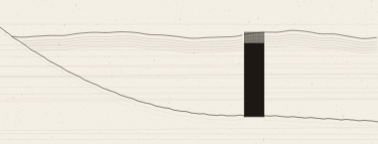
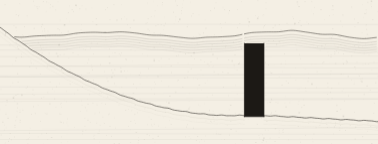
Remove crest stack grey box; fade sheltered plan chop
Sea: drop stacked overwash fill and crest cap; use the same waveBand
strokes as open water after the wall fill, gated by seaWashClearsWall only.

Plan: keep full chop amplitude; shelter ramps opacity and stroke width via
graduatedShelterStrength instead of blanking the calm band.

diff --git a/lib/shelter.ts b/lib/shelter.ts
@@ -25,9 +25,9 @@ export type PlanShelterInput = {
 const WALL_CALM_FRAC = 0.1;
 const BEACH_CALM_FRAC = 0.3;
 const SIDE_CALM_FRAC = 0.1;
-/** Calm-band floor — near-empty ink, not a second full chop field. */
-export const CALM_ROUGHNESS_MULT = 0.06;
-/** After the calm band, reach full chop over this share of pool depth (steeper than a linear ramp). */
+/** Most-sheltered chop still draws — this is the ink strength floor (opacity scale). */
+export const SHELTER_FADE_MIN = 0.22;
+/** After the calm band, reach full chop over this share of pool depth. */
 export const SHELTER_RAMP_FRAC = 0.32;
 
 /** At or below this mean, the whole pool is the quiet patch. Metres per second. */
@@ -177,26 +177,36 @@ export function planCalmBandFraction(fromDeg: number, wallShelters: boolean): nu
 }
 
 /**
- * Continuous 0–1 multiplier for plan chop roughness. Calm sits upwind; the
- * lee ramps smoothly to full forecast roughness.
+ * 0 upwind (most sheltered) → 1 downwind (full forecast chop). Strokes stay
+ * visible; plan ink fades with this strength instead of dropping out.
  */
-export function graduatedShelterMultiplier(
+export function graduatedShelterStrength(
   point: PlanPoint,
   input: PlanShelterInput,
   meanMs: number,
 ): number {
   const ms = Number.isFinite(meanMs) ? Math.max(0, meanMs) : 0;
-  if (ms < QUIET_CALM_MS) return CALM_ROUGHNESS_MULT;
+  if (ms < QUIET_CALM_MS) return SHELTER_FADE_MIN;
   if (!Number.isFinite(input.fromDeg)) return 1;
   const calmFrac = planCalmBandFraction(input.fromDeg, input.wallShelters);
   if (calmFrac <= 0) return 1;
   const u = planUpwindFraction(point, input.fromDeg);
-  if (u <= calmFrac) return CALM_ROUGHNESS_MULT;
+  if (u <= calmFrac) return 0;
   const rampEnd = Math.min(1, calmFrac + SHELTER_RAMP_FRAC);
   if (u >= rampEnd) return 1;
   const t = (u - calmFrac) / (rampEnd - calmFrac);
   const eased = t * t * t;
-  return CALM_ROUGHNESS_MULT + eased * (1 - CALM_ROUGHNESS_MULT);
+  return eased;
+}
+
+/** @deprecated Use graduatedShelterStrength for ink fade. */
+export function graduatedShelterMultiplier(
+  point: PlanPoint,
+  input: PlanShelterInput,
+  meanMs: number,
+): number {
+  const s = graduatedShelterStrength(point, input, meanMs);
+  return SHELTER_FADE_MIN + s * (1 - SHELTER_FADE_MIN);
 }
 
 export function quieterZone(input: {

diff --git a/components/section-canvas.tsx b/components/section-canvas.tsx
@@ -11,6 +11,7 @@ import {
   heldRipple,
   heldSurface,
   resolveSection,
+  seaWashClearsWall,
   surfaceRipple,
   swellOffset,
   waterlineU,
@@ -186,12 +187,15 @@ function paint(
   const ySurface = (u: number) => yOf(surface(u));
 
   const waveY = (depth: number) => (u: number) => {
-    const y = ySurface(u) + depth;
-    if (section.mode === "sea" && u >= WALL_U0 && u <= WALL_U1) {
-      if (surface(u) <= 1) return Number.NaN;
-      if (y >= wallY - 1) return Number.NaN;
+    if (
+      section.mode === "sea" &&
+      u >= WALL_U0 &&
+      u <= WALL_U1 &&
+      !seaWashClearsWall(surface(u), depth, PX)
+    ) {
+      return Number.NaN;
     }
-    return y;
+    return ySurface(u) + depth;
   };
 
   const waveBand = (u0: number, u1: number) => {
@@ -268,21 +272,7 @@ function paint(
     ctx.strokeRect(wallX, wallY, wallW, wallH);
   }
 
-  if (section.mode === "sea") {
-    waveBand(WALL_U0, RATIO_SUM);
-    let minSurfaceY = Infinity;
-    for (let u = WALL_U0; u <= WALL_U1 + 1e-6; u += 0.05) {
-      if (surface(u) <= 1) continue;
-      minSurfaceY = Math.min(minSurfaceY, ySurface(u));
-    }
-    if (Number.isFinite(minSurfaceY) && minSurfaceY < wallY - 1.5) {
-      for (let y = minSurfaceY; y <= wallY; y += 1.75) {
-        drawRuns(ctx, WALL_U0, WALL_U1, () => y, 1.2, 0.94);
-      }
-      ctx.fillStyle = INK;
-      ctx.fillRect(wallX, wallY - 1, wallW, 2.2);
-    }
-  }
+  if (section.mode === "sea") waveBand(WALL_U0, RATIO_SUM);
 }
 
 export function SectionCanvas({

diff --git a/lib/plan-roughness.test.ts b/lib/plan-roughness.test.ts
@@ -1,18 +1,25 @@
 import assert from "node:assert/strict";
 import test from "node:test";
-import { PLAN_CHOP_ROW_GAP, chopLocalToScreen, planChopInk, roughnessAt } from "./plan-roughness.ts";
+import {
+  PLAN_CHOP_ROW_GAP,
+  chopLocalToScreen,
+  planChopInk,
+  planShelterFade,
+  roughnessAt,
+} from "./plan-roughness.ts";
 import { poolPlanCorners } from "./pool-plan.ts";
 
 test("a light breeze still inks sparse chop, including a sheltered step-down", () => {
   const open = roughnessAt({ x: 0, y: -40 }, 2, null, 3.2);
   const northWind = { fromDeg: 0, compass: "N", wallShelters: true };
-  const sheltered = roughnessAt({ x: 0, y: poolPlanCorners().nw.y }, 2, northWind, 3.2);
+  const wallPt = { x: 0, y: poolPlanCorners().nw.y };
   const beach = poolPlanCorners().se;
-  const exposed = roughnessAt(beach, 2, northWind, 3.2);
+  const shelteredFade = planShelterFade(wallPt, northWind, 3.2);
+  const exposedFade = planShelterFade(beach, northWind, 3.2);
   assert.ok(open >= 0.22);
-  assert.ok(sheltered < exposed * 0.35);
-  assert.ok(exposed >= 0.22);
-  const ink = planChopInk(exposed);
+  assert.ok(shelteredFade < exposedFade * 0.5);
+  assert.equal(exposedFade, 1);
+  const ink = planChopInk(roughnessAt(beach, 2, northWind, 3.2));
   assert.ok(ink);
   assert.ok(ink.opacity >= 0.45);
   assert.ok(ink.width >= 1.1);

diff --git a/components/plan-view.tsx b/components/plan-view.tsx
@@ -9,6 +9,7 @@ import {
   chopLocalToScreen,
   chopRoughness,
   planChopInk,
+  planShelterFade,
   planWindRoughBoost,
   roughnessAt,
   waveScanline,
@@ -187,19 +188,22 @@ function RoughnessField({
     const stepY = PLAN_CHOP_ROW_GAP;
 
     for (let ly = -half; ly <= half; ly += stepY) {
-      const sample = roughnessAt(
-        localToPlan(0, ly, mid, travel, layout),
-        chopLevel,
-        shelter,
-        meanMs ?? 0,
-      );
+      const planPoint = localToPlan(0, ly, mid, travel, layout);
+      const fade = planShelterFade(planPoint, shelter, meanMs ?? 0);
+      const sample = roughnessAt(planPoint, chopLevel, shelter, meanMs ?? 0);
       const rough =
-        sample < 0.08 ? sample : sample + windBoost * (1 - sample * 0.35);
+        sample < 0.08 ? sample : sample + windBoost * fade * (1 - sample * 0.35);
       const ink = planChopInk(rough);
       if (!ink) continue;
       const drift = phase + ly * 0.04;
       const d = waveScanline(-half, half, ly, ink.amp, drift, 6);
-      if (d) rows.push({ d, opacity: ink.opacity, width: ink.width });
+      if (d) {
+        rows.push({
+          d,
+          opacity: ink.opacity * fade,
+          width: ink.width * (0.62 + 0.38 * fade),
+        });
+      }
     }
 
     return rows;

diff --git a/lib/plan-roughness.ts b/lib/plan-roughness.ts
@@ -1,6 +1,11 @@
 import type { ChopLevel } from "./chop";
 import type { PlanPoint } from "./pool-plan";
-import { graduatedShelterMultiplier, polygonArea, type PlanShelterInput } from "./shelter";
+import {
+  graduatedShelterStrength,
+  polygonArea,
+  SHELTER_FADE_MIN,
+  type PlanShelterInput,
+} from "./shelter";
 
 /** Vertical gap between wind-aligned chop strokes, in plan SVG units. */
 export const PLAN_CHOP_ROW_GAP = 13;
@@ -34,8 +39,18 @@ export function roughnessAt(
 ): number {
   const base = planBaseRoughness(chopLevel, meanMs);
   if (base < 0.02) return 0;
-  if (!shelter) return base;
-  return base * graduatedShelterMultiplier(point, shelter, meanMs);
+  return base;
+}
+
+/** Fade strength 0–1 for sheltered plan ink (opacity / width), not amplitude. */
+export function planShelterFade(
+  point: PlanPoint,
+  shelter: PlanShelterInput | null,
+  meanMs: number,
+): number {
+  if (!shelter) return 1;
+  const strength = graduatedShelterStrength(point, shelter, meanMs);
+  return SHELTER_FADE_MIN + strength * (1 - SHELTER_FADE_MIN);
 }
 
 /** Plan ink strength from mean wind (m/s). Calm stays soft; a gale does not pile on. */

diff --git a/lib/shelter.test.ts b/lib/shelter.test.ts
@@ -2,6 +2,7 @@ import assert from "node:assert/strict";
 import test from "node:test";
 import { poolDepthM, poolOutline } from "./geography.ts";
 import {
+  graduatedShelterStrength,
   graduatedShelterMultiplier,
   planCalmBandFraction,
   planUpwindFraction,
@@ -15,10 +16,10 @@ test("graduated shelter is calm upwind and ramps to full chop downwind", () => {
   const north = { fromDeg: 0, compass: "N", wallShelters: true };
   const wall = { x: 0, y: poolOutline()[0].y };
   const beach = { x: 0, y: poolOutline()[2].y };
-  const calmWall = graduatedShelterMultiplier(wall, north, 6);
-  const openBeach = graduatedShelterMultiplier(beach, north, 6);
+  const calmWall = graduatedShelterStrength(wall, north, 6);
+  const openBeach = graduatedShelterStrength(beach, north, 6);
   assert.ok(calmWall < openBeach);
-  assert.ok(calmWall <= 0.08);
+  assert.equal(calmWall, 0);
   assert.equal(openBeach, 1);
   assert.ok(planCalmBandFraction(0, true) === 0.1);
   assert.equal(planCalmBandFraction(0, false), 0);
